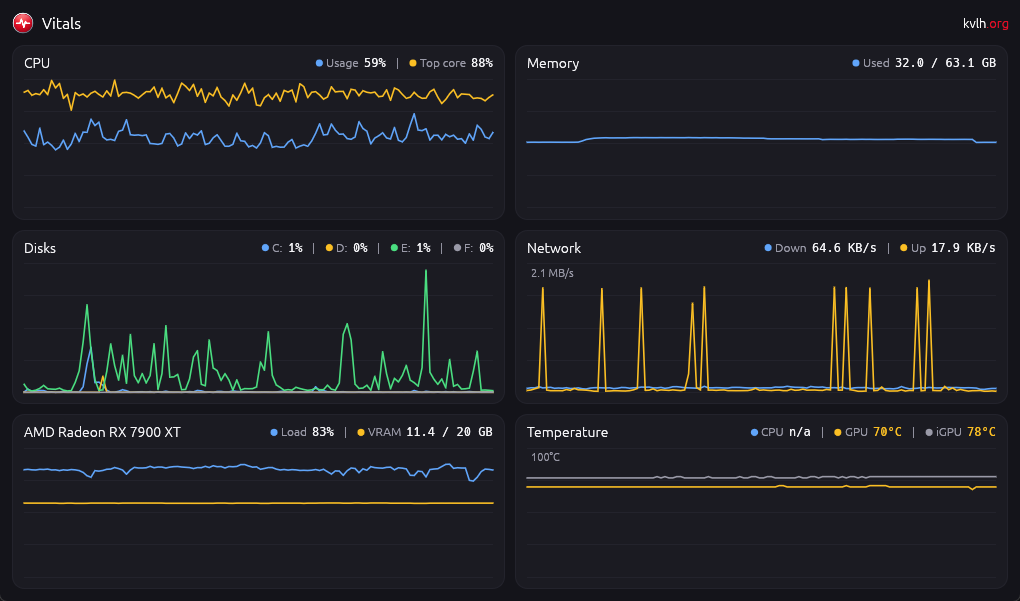
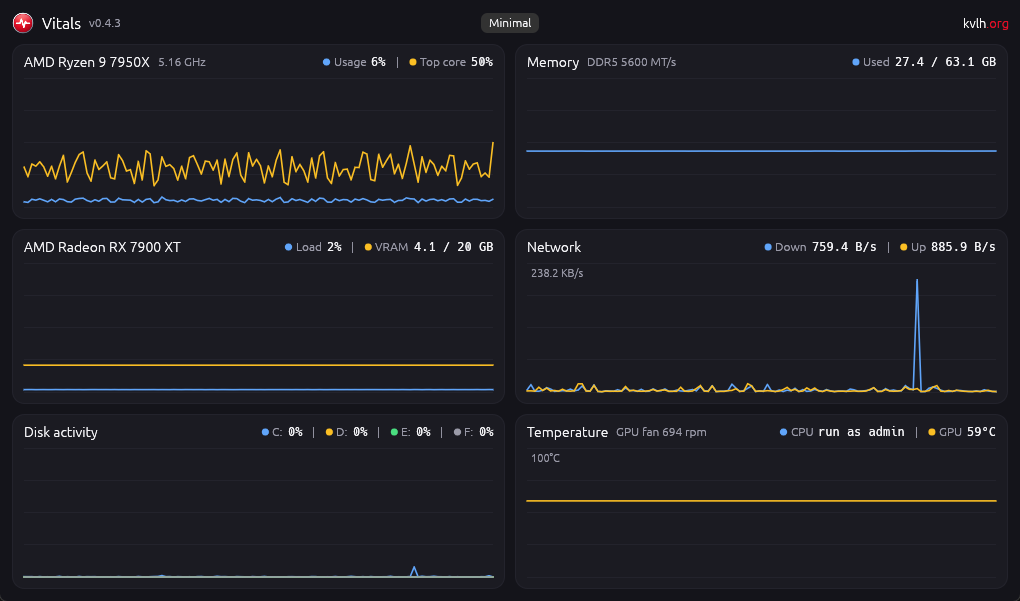
Update README screenshots for 0.4.3
Minimal mode leads (it is the default), followed by the graphs narrow and
wide. The Linux (WSL) and macOS (GitHub VM) shots are minimal mode too.

diff --git a/README.md b/README.md
@@ -2,12 +2,18 @@
 
 <h1 align="center">Vitals</h1>
 
-<p align="center">A small performance monitor with nothing to click. One window, one graph per component, the last two minutes of history.<br>Rust + egui, for Windows, Linux and macOS.</p>
+<p align="center">A small performance monitor. One line of live values per component, or one graph each with the last two minutes of history.<br>Rust + egui, for Windows, Linux and macOS.</p>
 
 <p align="center">
-  <img src="docs/windows.png" width="300" alt="Vitals on Windows, narrow window">
-  <img src="docs/windows-wide.png" width="520" alt="Vitals on Windows, wide window">
+  <img src="docs/windows-minimal.png" width="460" alt="Vitals in minimal mode on Windows">
 </p>
+<p align="center"><sub>Minimal mode, the default</sub></p>
+
+<p align="center">
+  <img src="docs/windows.png" width="280" alt="Vitals with graphs, narrow window">
+  <img src="docs/windows-wide.png" width="520" alt="Vitals with graphs, wide window">
+</p>
+<p align="center"><sub>Graphs, narrow and wide</sub></p>
 
 ## What it shows
 
@@ -82,7 +88,7 @@ cargo build --release
   <img src="docs/linux-wsl.png" width="300" alt="Vitals on Linux under WSL, dark theme">
   <img src="docs/macos-vm.png" width="300" alt="Vitals on a macOS VM, light theme">
 </p>
-<p align="center"><sub>Linux under WSL (left) and macOS in a GitHub VM (right). Both VMs have no real GPU or temperature sensors, hence the n/a values.</sub></p>
+<p align="center"><sub>Minimal mode on Linux under WSL (left, dark theme) and macOS in a GitHub VM (right, light theme). Neither VM has a real GPU or temperature sensors, hence the n/a values.</sub></p>
 
 ## License
 
